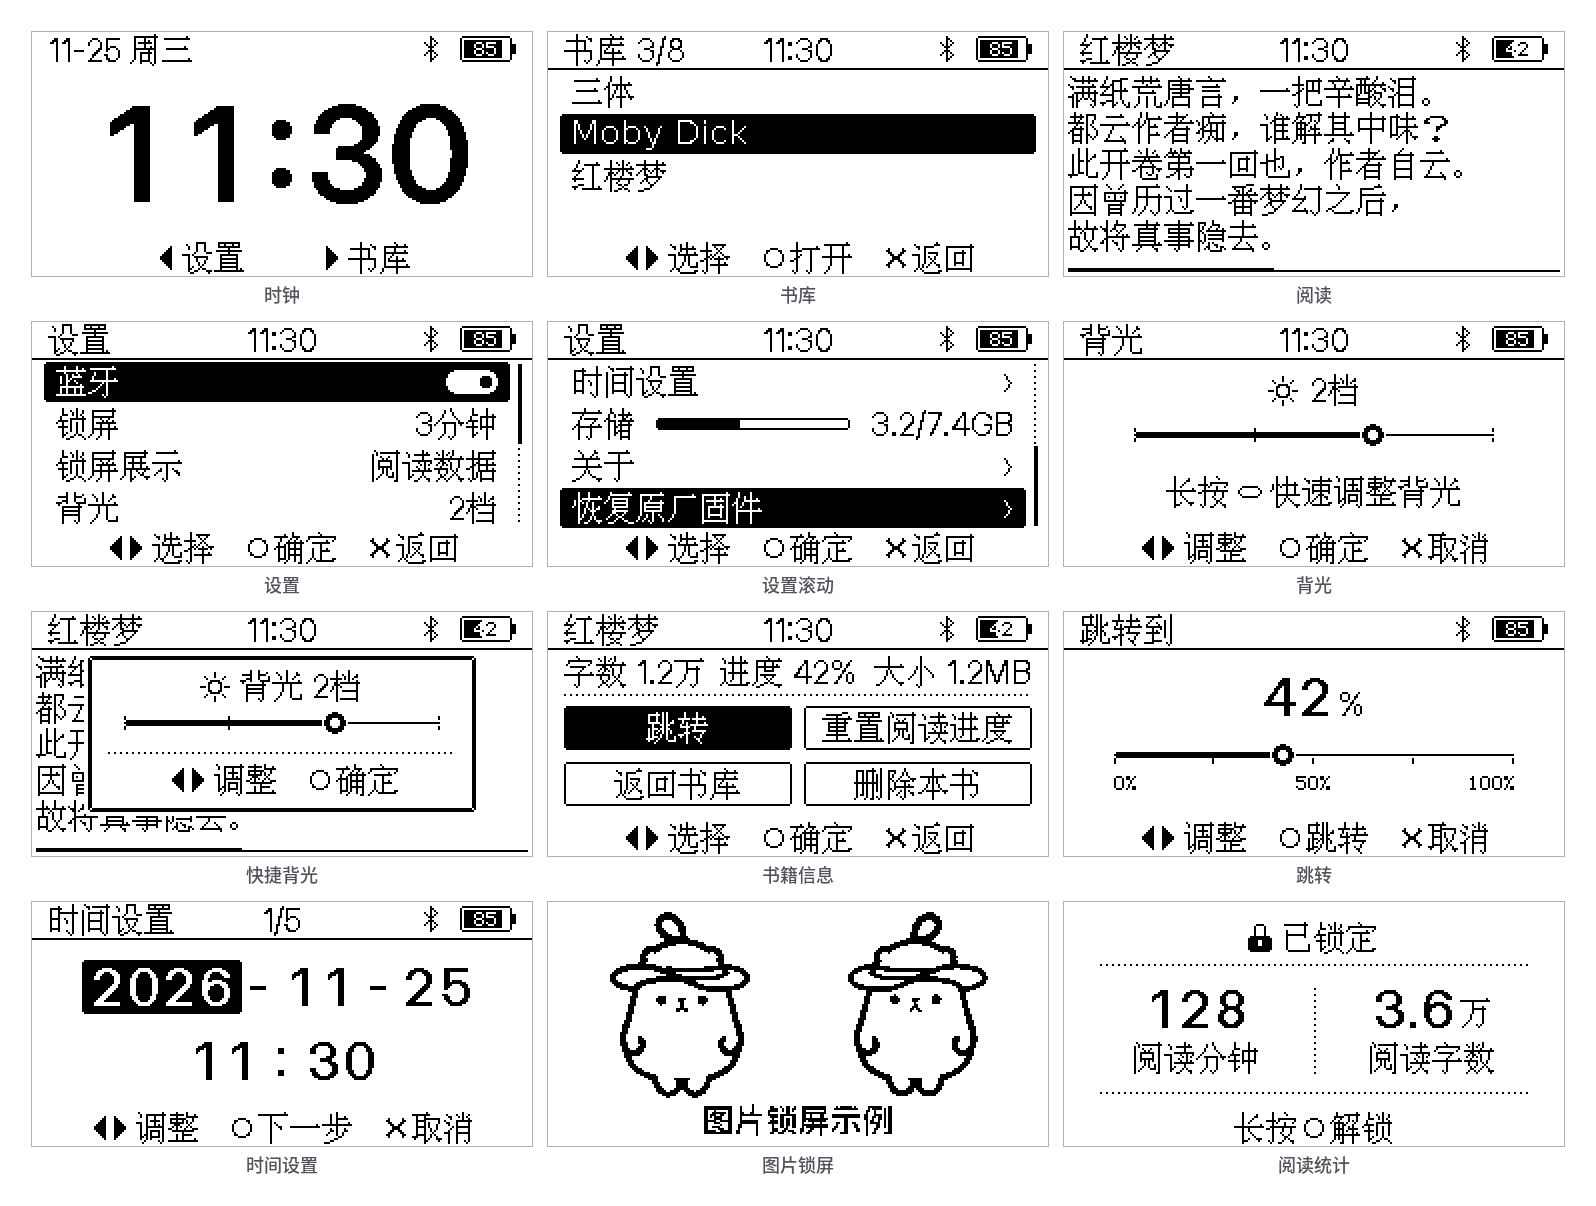
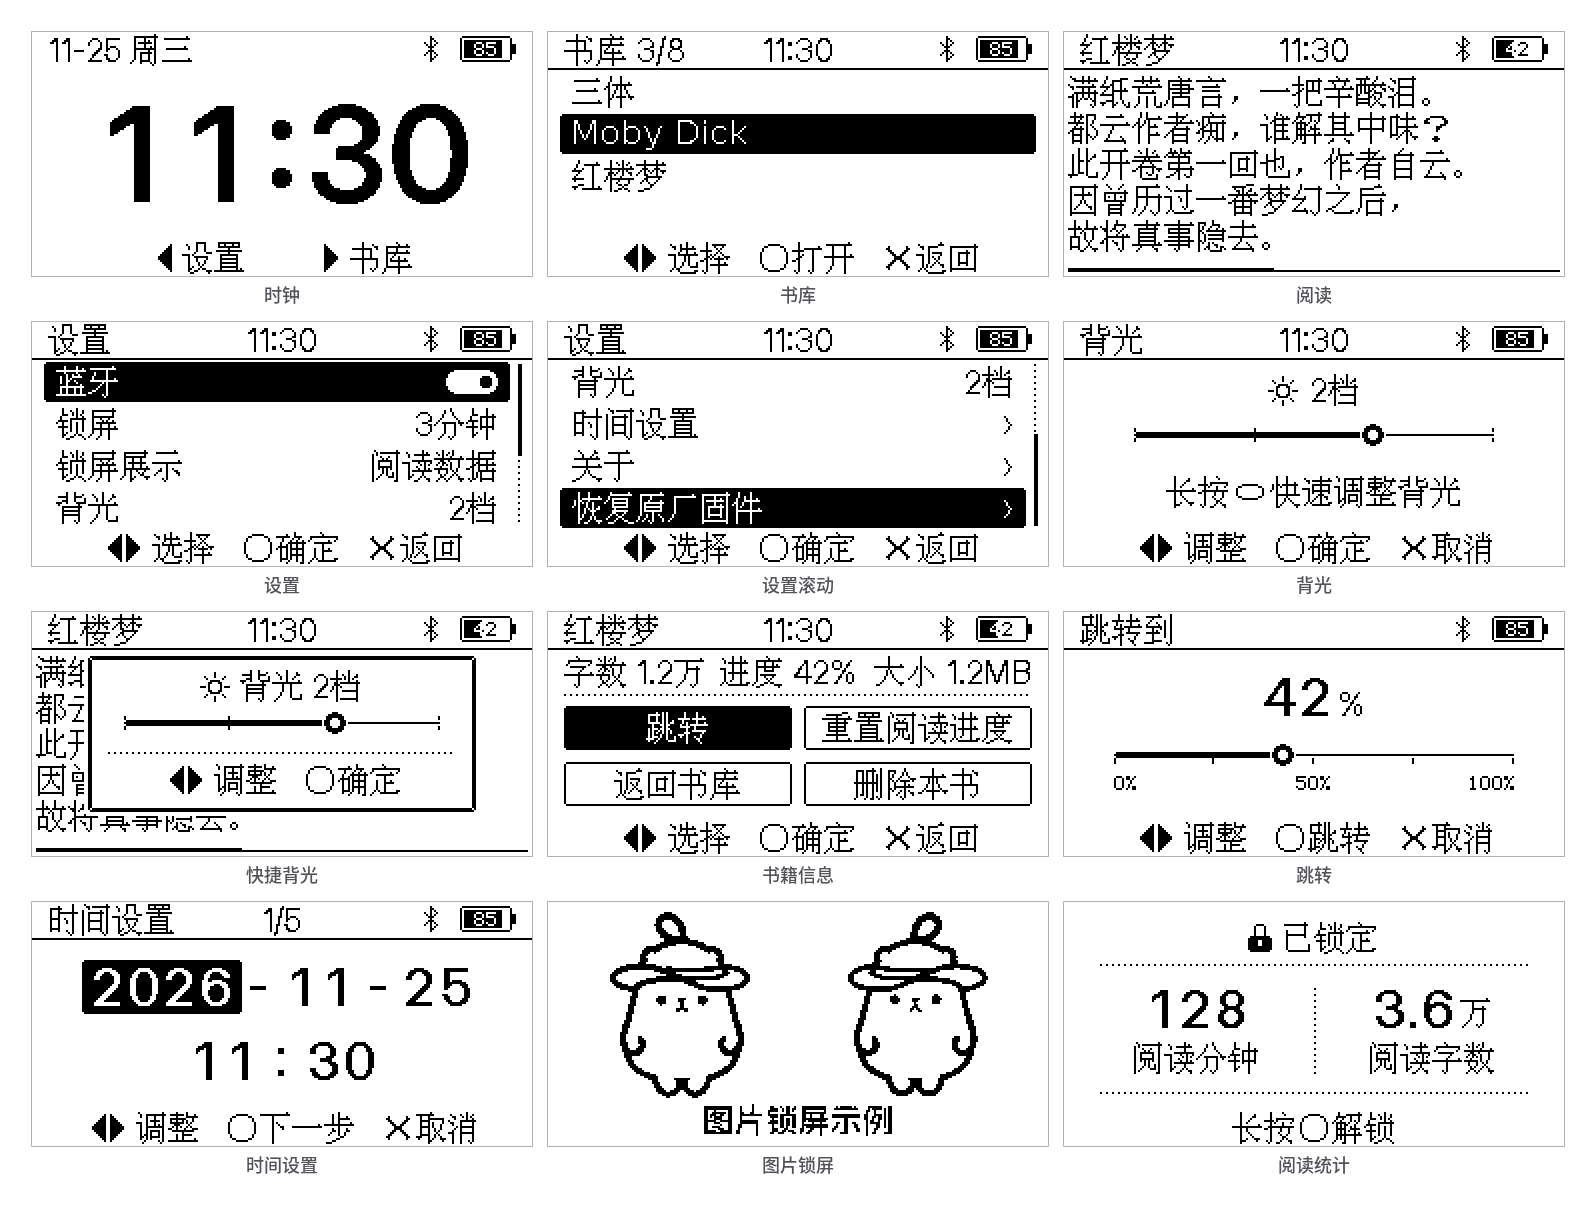
feat: 存储空间改用 MB 显示并移入关于页
- 将 build_space_line() 存储容量单位由 GB 调整为 MiB（显示为 MB），移除无用的百分比辅助函数

- 从设置页列表及滚动跳过逻辑中移除 SET_ITEM_STORAGE，在关于页第 4 行展示“存储 已用/总量MB”

- 同步更新模拟器测试用例、expected.h 帧哈希（27 帧全过）与 docs/images/screens.png 总览图

diff --git a/firmware/e2_e2s_mp/main/mp_app.c b/firmware/e2_e2s_mp/main/mp_app.c
@@ -572,18 +572,7 @@ static void view_read(mp_ui_state_t *v)
     v->percent = pct;
 }
 
-/* 存储行：只填 s_buf_space（值），总量/已用百分比单独返回。 */
-static uint8_t storage_bar_pct(void)
-{
-    uint64_t total = 0;
-    uint64_t freeb = 0;
-    if (store_space(&total, &freeb) != 0 || total == 0) {
-        return 0;
-    }
-    uint64_t used = total > freeb ? total - freeb : 0;
-    return (uint8_t)((used * 100u + total / 2u) / total);
-}
-
+/* 生成关于页使用的存储空间文本（MiB，十分位四舍五入，避免浮点运算）。 */
 static void build_space_line(void)
 {
     uint64_t total = 0;
@@ -595,47 +584,43 @@ static void build_space_line(void)
         return;
     }
 
-    /* COPY_DECK §3.4：GB = 1000^3，十等分四舍五入，避免浮点。 */
-    const uint64_t gb = 1000000000ull;
+    const uint64_t mb = 1024ull * 1024ull;
     uint64_t used = total > freeb ? total - freeb : 0;
-    uint64_t used_t = (used * 10u + gb / 2u) / gb;
-    uint64_t total_t = (total * 10u + gb / 2u) / gb;
-    snprintf(s_buf_space, sizeof(s_buf_space), "%u.%u/%u.%uGB",
+    uint64_t used_t = (used * 10u + mb / 2u) / mb;
+    uint64_t total_t = (total * 10u + mb / 2u) / mb;
+    snprintf(s_buf_space, sizeof(s_buf_space), "%u.%u/%u.%uMB",
              (unsigned)(used_t / 10u), (unsigned)(used_t % 10u),
              (unsigned)(total_t / 10u), (unsigned)(total_t % 10u));
 }
 
-/* 设置页项定义与动态顺序表：有背光 8 行（存储下标 5），无背光 7 行（存储下标 4）。 */
+/* 设置页项定义与动态顺序表：有背光 7 行，无背光 6 行。 */
 typedef enum {
     SET_ITEM_BLE = 0,
     SET_ITEM_SLEEP,
     SET_ITEM_LOCK_DISP,
     SET_ITEM_BACKLIGHT,
     SET_ITEM_TIME,
-    SET_ITEM_STORAGE,
     SET_ITEM_ABOUT,
     SET_ITEM_RESTORE,
 } set_item_t;
 
-/* 有背光（E2S）：8 行，存储行在下标 5（不可选中）。 */
+/* 有背光（E2S）：7 行。 */
 static const uint8_t k_set_items_bl[] = {
     SET_ITEM_BLE,
     SET_ITEM_SLEEP,
     SET_ITEM_LOCK_DISP,
     SET_ITEM_BACKLIGHT,
     SET_ITEM_TIME,
-    SET_ITEM_STORAGE,
     SET_ITEM_ABOUT,
     SET_ITEM_RESTORE,
 };
 
-/* 无背光（E2）：7 行，隐藏背光项，存储行在下标 4（不可选中）。 */
+/* 无背光（E2）：6 行，隐藏背光项。 */
 static const uint8_t k_set_items_nobl[] = {
     SET_ITEM_BLE,
     SET_ITEM_SLEEP,
     SET_ITEM_LOCK_DISP,
     SET_ITEM_TIME,
-    SET_ITEM_STORAGE,
     SET_ITEM_ABOUT,
     SET_ITEM_RESTORE,
 };
@@ -664,7 +649,6 @@ static void settings_fill(mp_ui_state_t *v, const uint8_t *items, uint8_t count)
     if (si >= MP_SLEEP_TIMEOUT_COUNT) {
         si = MP_SLEEP_IDX_DEFAULT;
     }
-    build_space_line();
 
     for (uint8_t i = 0; i < MP_LIST_ROWS; i++) {
         uint8_t idx = (uint8_t)(v->scroll + i);
@@ -716,12 +700,6 @@ static void settings_fill(mp_ui_state_t *v, const uint8_t *items, uint8_t count)
             r->label = "时间设置";
             r->kind = MP_ROW_ACTION;
             break;
-        case SET_ITEM_STORAGE:
-            r->label = "存储";
-            r->kind = MP_ROW_STORAGE;
-            r->value = s_buf_space;
-            r->bar = storage_bar_pct();
-            break;
         case SET_ITEM_ABOUT:
             r->label = "关于";
             r->kind = MP_ROW_ACTION;
@@ -746,7 +724,7 @@ static void view_settings(mp_ui_state_t *v)
     uint8_t count = 0;
     const uint8_t *items = settings_items(&count);
     uint8_t sel = mp_app_state.set_sel;
-    if (sel >= count || items[sel] == SET_ITEM_STORAGE) {
+    if (sel >= count) {
         sel = 0;
     }
     v->row_count = count;
@@ -761,14 +739,16 @@ static void view_about(mp_ui_state_t *v)
     v->left.enc = MP_STR_UTF8;
     v->mid = NULL;
 
+    /* 每次渲染关于页时刷新存储占用（MB）到第 4 行规格表 */
+    build_space_line();
+
     snprintf(s_buf_about[0], sizeof(s_buf_about[0]), "%s",
              mp_app_state.has_backlight ? "Miaopaper E2S" : "Miaopaper E2");
     snprintf(s_buf_about[1], sizeof(s_buf_about[1]), "固件 %u.%u.%u",
              (unsigned)READER_VERSION_MAJOR, (unsigned)READER_VERSION_MINOR,
              (unsigned)READER_VERSION_PATCH);
     snprintf(s_buf_about[2], sizeof(s_buf_about[2]), "构建 %s", MP_BUILD_DATE);
-    snprintf(s_buf_about[3], sizeof(s_buf_about[3]), "%s",
-             text_hz16_glyph(0xB0, 0xA1) ? "字库 内置" : "字库 缺失");
+    snprintf(s_buf_about[3], sizeof(s_buf_about[3]), "存储 %s", s_buf_space);
     v->about_lines = 4;
 
     for (uint8_t i = 0; i < MP_LIST_ROWS; i++) {
@@ -2011,18 +1991,12 @@ static void bl_popup_cancel(void)
 static void settings_step(int dir)
 {
     uint8_t count = 0;
-    const uint8_t *items = settings_items(&count);
+    (void)settings_items(&count);
     uint8_t sel = mp_app_state.set_sel;
     if (sel >= count) {
         sel = 0;
     }
-    for (uint8_t tries = 0; tries < count; tries++) {
-        sel = (uint8_t)(((int)sel + dir + (int)count) % (int)count);
-        if (items[sel] != SET_ITEM_STORAGE) {
-            break;
-        }
-    }
-    mp_app_state.set_sel = sel;
+    mp_app_state.set_sel = (uint8_t)(((int)sel + dir + (int)count) % (int)count);
 }
 
 static void settings_activate(void)

diff --git a/firmware/e2_e2s_mp/sim/sim_store.c b/firmware/e2_e2s_mp/sim/sim_store.c
@@ -20,37 +20,36 @@ static const sim_book_t k_books[SIM_STORE_BOOKS] = {
     { k_title_hongloumeng, MP_STR_GB2312, 6144u },
 };
 
-/* 8 frozen settings rows (COPY_DECK §2.4). Values are static so the view
- * model can keep pointers without copying. */
+/* 7 settings rows without storage item (moved to ABOUT). Values are static. */
 static const char *const k_settings_labels[SIM_SETTINGS_ROWS] = {
-    "蓝牙", "锁屏", "锁屏展示", "背光", "时间设置", "存储", "关于", "恢复原厂固件",
+    "蓝牙", "锁屏", "锁屏展示", "背光", "时间设置", "关于", "恢复原厂固件",
 };
 static const char *const k_settings_values[SIM_SETTINGS_ROWS] = {
-    NULL, "3分钟", "阅读数据", "2档", NULL, "3.2/7.4GB", NULL, NULL,
+    NULL, "3分钟", "阅读数据", "2档", NULL, NULL, NULL,
 };
 static const uint8_t k_settings_kind[SIM_SETTINGS_ROWS] = {
     MP_ROW_TOGGLE, MP_ROW_VALUE, MP_ROW_VALUE, MP_ROW_VALUE,
-    MP_ROW_ACTION, MP_ROW_STORAGE, MP_ROW_ACTION, MP_ROW_ACTION,
+    MP_ROW_ACTION, MP_ROW_ACTION, MP_ROW_ACTION,
 };
 
-/* 无背光设备（E2）设置页 7 行：隐藏背光项，存储位于下标 4。 */
+/* 无背光设备（E2）设置页 6 行：隐藏背光项。 */
 static const char *const k_settings_e2_labels[SIM_SETTINGS_E2_ROWS] = {
-    "蓝牙", "锁屏", "锁屏展示", "时间设置", "存储", "关于", "恢复原厂固件",
+    "蓝牙", "锁屏", "锁屏展示", "时间设置", "关于", "恢复原厂固件",
 };
 static const char *const k_settings_e2_values[SIM_SETTINGS_E2_ROWS] = {
-    NULL, "3分钟", "阅读数据", NULL, "3.2/7.4GB", NULL, NULL,
+    NULL, "3分钟", "阅读数据", NULL, NULL, NULL,
 };
 static const uint8_t k_settings_e2_kind[SIM_SETTINGS_E2_ROWS] = {
     MP_ROW_TOGGLE, MP_ROW_VALUE, MP_ROW_VALUE, MP_ROW_ACTION,
-    MP_ROW_STORAGE, MP_ROW_ACTION, MP_ROW_ACTION,
+    MP_ROW_ACTION, MP_ROW_ACTION,
 };
 
-/* ABOUT is one page now: the panel line moved out (评审：设置里不需要面板信息)。 */
+/* ABOUT is one page now: storage space moved into the 4th line in MB. */
 static const char *const k_about[MP_LIST_ROWS] = {
     "Miaopaper E2S",
     "固件 1.0.3",
     "构建 2026-11-25",
-    "字库 内置",
+    "存储 12.4/118.5MB",
 };
 
 /* 红楼梦, first page: 12 full-width chars per line = 192 px < 246. */
@@ -131,7 +130,7 @@ uint8_t sim_settings_fill_rows(mp_ui_row_t rows[MP_LIST_ROWS], uint8_t scroll)
             rows[i].kind = k_settings_kind[idx];
             rows[i].value = k_settings_values[idx];
             rows[i].on = (idx == 0) ? 1 : 0;
-            rows[i].bar = (idx == 5) ? 43 : 0;
+            rows[i].bar = 0;
         } else {
             rows[i].label = NULL;
             rows[i].enc = MP_STR_UTF8;
@@ -151,7 +150,7 @@ uint8_t sim_settings_e2_fill_rows(mp_ui_row_t rows[MP_LIST_ROWS], uint8_t scroll
             rows[i].kind = k_settings_e2_kind[idx];
             rows[i].value = k_settings_e2_values[idx];
             rows[i].on = (idx == 0) ? 1 : 0;
-            rows[i].bar = (idx == 4) ? 43 : 0;
+            rows[i].bar = 0;
         } else {
             rows[i].label = NULL;
             rows[i].enc = MP_STR_UTF8;

diff --git a/firmware/e2_e2s_mp/sim/expected.h b/firmware/e2_e2s_mp/sim/expected.h
@@ -23,10 +23,10 @@ static const sim_expected_t k_expected_frames[] = {
     { "read_cn",         0x8810CB34u },
     { "read_en",         0x96A0C84Au },
     { "read_end",        0x20107F3Cu },
-    { "settings",        0xDDB32778u },
-    { "settings_off",    0x19662E3Au },
-    { "settings_scroll", 0x81ED22FDu },
-    { "settings_e2",     0x07D79DF8u },
+    { "settings",        0x21157BFFu },
+    { "settings_off",    0xE5C072BDu },
+    { "settings_scroll", 0x164CF9EEu },
+    { "settings_e2",     0xEC9484A0u },
     { "backlight",       0x5C4811E0u },
     { "backlight_popup", 0xC8B7D696u },
     { "book_info",       0x6FEDF09Bu },
@@ -34,8 +34,8 @@ static const sim_expected_t k_expected_frames[] = {
     { "time_set",        0x3851BBD2u },
     { "time_done",       0x84BC14F3u },
     { "delete",          0x15AC5928u },
-    { "about",           0x9658A968u },
-    { "about_e2",        0x4D4DF7A0u },
+    { "about",           0x6E8D8173u },
+    { "about_e2",        0xB598DFBBu },
     { "lock_img",        0x05B429D0u },
     { "lock_stats",      0x3488E5C5u },
     { "lock_none",       0xF7A7DD72u },

diff --git a/firmware/e2_e2s_mp/sim/sim_store.h b/firmware/e2_e2s_mp/sim/sim_store.h
@@ -31,9 +31,9 @@ const sim_book_t *sim_store_books(size_t *count);
  * returned value is the logical row count (4). */
 uint8_t sim_store_fill_rows(mp_ui_row_t rows[MP_LIST_ROWS], uint8_t scroll);
 
-/* SETTINGS window: E2S 8 rows (存储 is an info row), E2 7 rows (无背光), 4-row window. */
-#define SIM_SETTINGS_ROWS 8
-#define SIM_SETTINGS_E2_ROWS 7
+/* SETTINGS window: E2S 7 rows, E2 6 rows (无背光), 4-row window. */
+#define SIM_SETTINGS_ROWS 7
+#define SIM_SETTINGS_E2_ROWS 6
 uint8_t sim_settings_fill_rows(mp_ui_row_t rows[MP_LIST_ROWS], uint8_t scroll);
 uint8_t sim_settings_e2_fill_rows(mp_ui_row_t rows[MP_LIST_ROWS], uint8_t scroll);
 

diff --git a/firmware/e2_e2s_mp/main/mp_app.h b/firmware/e2_e2s_mp/main/mp_app.h
@@ -59,7 +59,7 @@ typedef struct {
 
     /* 列表光标 */
     uint8_t sel;                    /* SELECT */
-    uint8_t set_sel;                /* SETTINGS（显示行号，跳过存储行） */
+    uint8_t set_sel;                /* SETTINGS（显示行号） */
     uint8_t info_sel;               /* BOOK_INFO 动作 0..3 */
     uint8_t jump_pct;               /* JUMP 目标百分比 0..100 */
     uint8_t time_step;              /* TIME_SET 0=年..4=分 */

diff --git a/firmware/e2_e2s_mp/sim/sim_main.c b/firmware/e2_e2s_mp/sim/sim_main.c
@@ -108,7 +108,7 @@ static void fx_settings(mp_ui_state_t *st, uint8_t sel)
 }
 
 static void fx_settings_sel0(mp_ui_state_t *st) { fx_settings(st, 0); }
-static void fx_settings_sel7(mp_ui_state_t *st) { fx_settings(st, 7); }
+static void fx_settings_sel7(mp_ui_state_t *st) { fx_settings(st, SIM_SETTINGS_ROWS - 1); }
 
 static void fx_settings_e2(mp_ui_state_t *st)
 {
